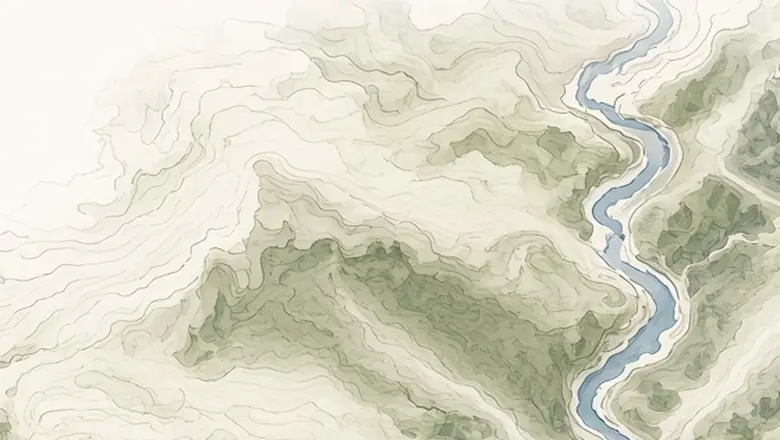
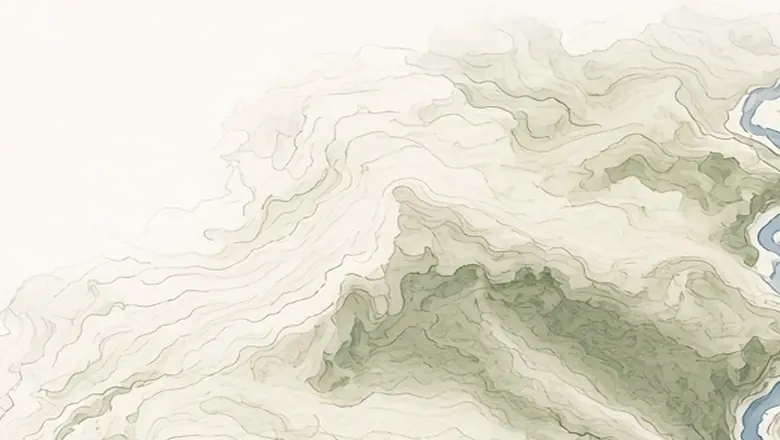
Clear mobile trailhead spacing and rebias terrain crops
Confirm fake river SVG overlay is gone; shift basemap crops and
object-position so water stays mid-frame; give trailhead more room
above the eval nerds pill.

diff --git a/src/data/walkLayout.ts b/src/data/walkLayout.ts
@@ -442,7 +442,7 @@ export function buildMobileWalkLayout(): {
   const padX = 52;
   const usable = W - padX * 2;
   // room above first trail for trailhead pin (clear of eval nerds pill)
-  let y = 72;
+  let y = 88;
   const trails: MobileTrailSection[] = [];
   const built: {
     meta: (typeof trailMeta)[number];
@@ -458,7 +458,7 @@ export function buildMobileWalkLayout(): {
     const n = meta.waypointIds.length;
     const bandH = Math.max(150, 56 + n * 34);
     const bandY = y;
-    const startY = y + 48;
+    const startY = y + (ti === 0 ? 64 : 48);
     const endY = y + bandH - 28;
     // alternate lean, but keep markers inset so left labels never clip
     const lean = ti % 2 === 0 ? 1 : -1;
@@ -487,10 +487,10 @@ export function buildMobileWalkLayout(): {
       waypoints.map((w) => w.id),
       pts,
     );
-    // pill to the right of the path start, clear of trailhead on first band
+    // pill to the right of the path start; first band sits below trailhead
     const pill = {
-      x: Math.min(W - 88, Math.max(110, waypoints[0].x + 56)),
-      y: bandY + (ti === 0 ? 34 : 22),
+      x: Math.min(W - 88, Math.max(130, waypoints[0].x + 72)),
+      y: bandY + (ti === 0 ? 52 : 22),
     };
 
     built.push({ meta, waypoints, bandY, bandH, pill, d });
@@ -532,10 +532,10 @@ export function buildMobileWalkLayout(): {
 
   const h = y + 72;
   const first = trails[0]?.waypoints[0];
-  // trailhead above/left of first marker, clear of eval nerds pill
+  // trailhead above/left of first marker, well clear of eval nerds pill
   const trailhead = {
-    x: first ? Math.max(EDGE + 8, first.x - 36) : padX,
-    y: first ? first.y - 36 : 28,
+    x: first ? Math.max(EDGE + 8, first.x - 48) : padX,
+    y: first ? Math.max(18, first.y - 56) : 22,
   };
 
   return {

diff --git a/src/app/globals.css b/src/app/globals.css
@@ -553,7 +553,8 @@ a:hover {
   width: 100%;
   height: 100%;
   object-fit: cover;
-  object-position: center;
+  /* bias left so crop water/river sits mid-frame, not as a right-edge bar */
+  object-position: 28% center;
 }
 
 .walk-continue-label {
